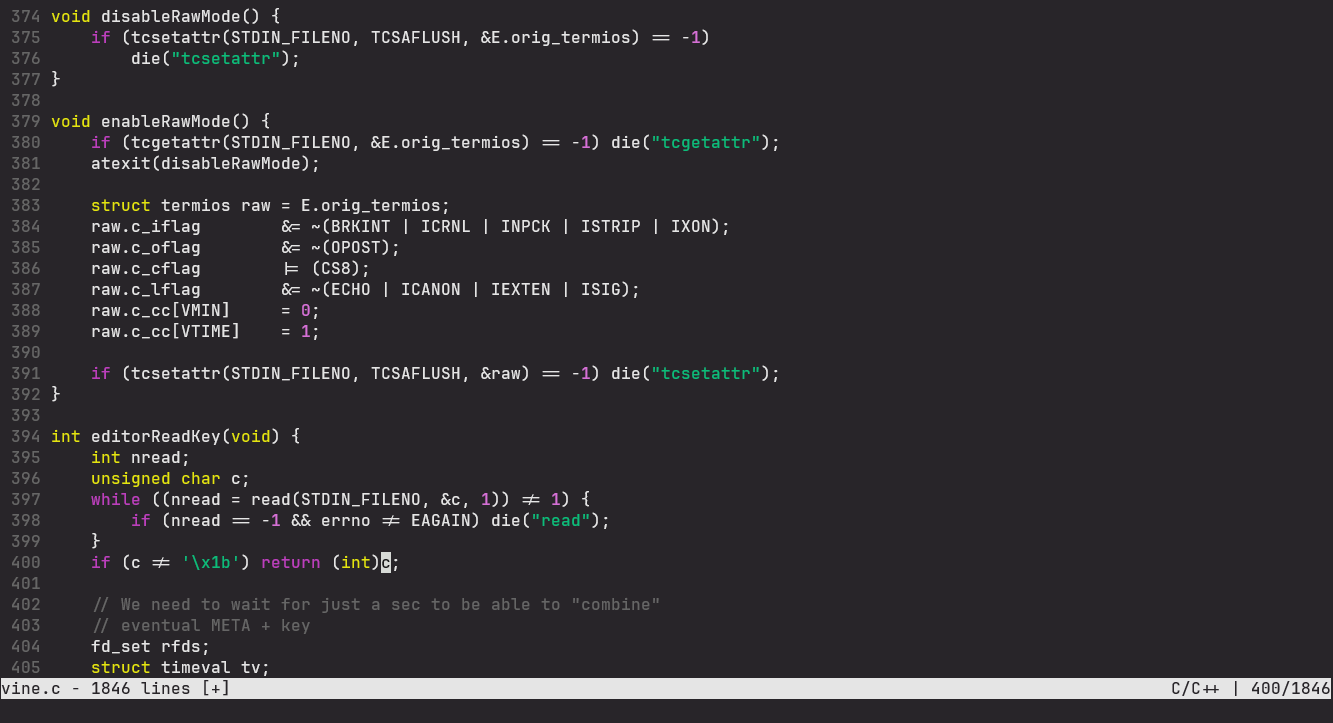
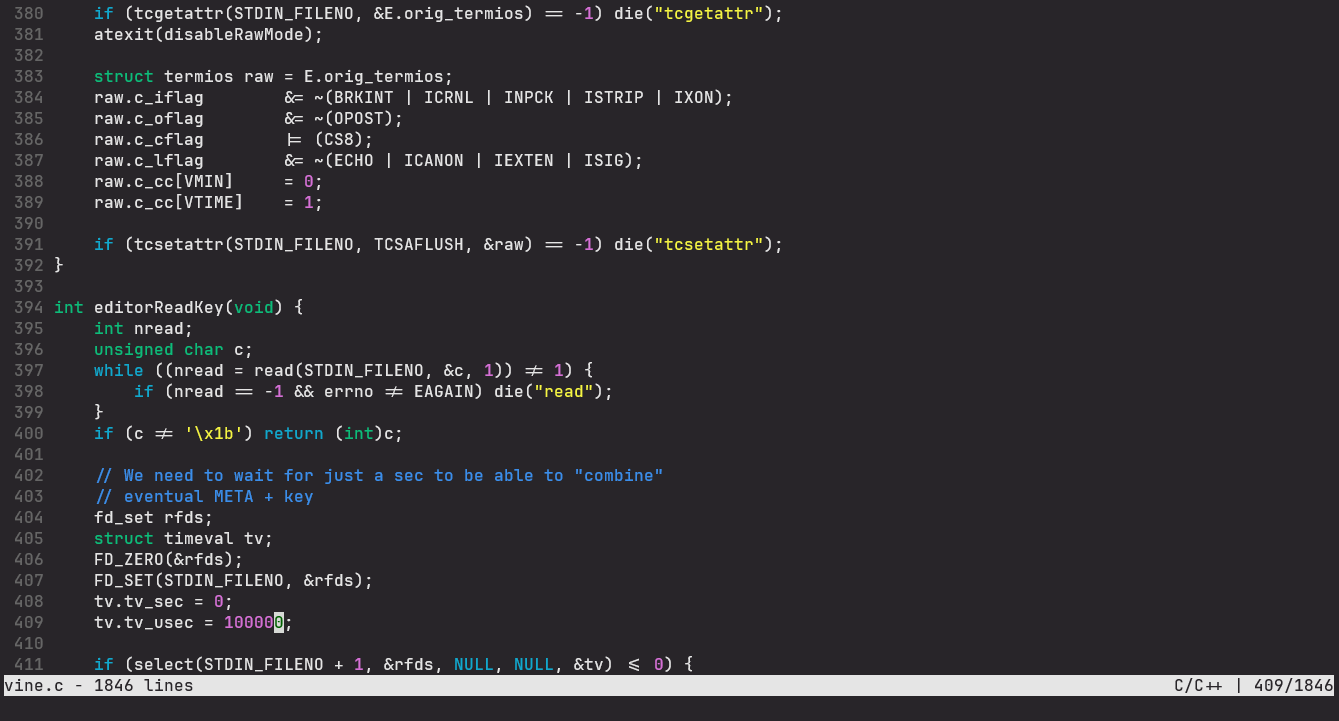
no more tweaks to the default theme

Changed region(s): [[0.0, 0.0, 0.5844, 0.9764], [0.8612, 0.9154, 1.0, 0.9764], [0.4306, 0.8239, 0.4921, 0.8544]]

diff --git a/vine.c b/vine.c
@@ -206,7 +206,7 @@ const struct editorTheme elflord_theme = {
 };
 
 const struct editorTheme default_theme = {
-    GREY, PURPLE, YELLOW, GREEN,
+    BRIGHT_BLUE, CYAN, GREEN, BRIGHT_YELLOW,
     BRIGHT_PURPLE, BLUE, WHITE,
 
     GREY, WHITE, BG_DEFAULT
